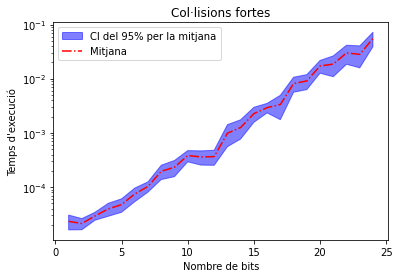
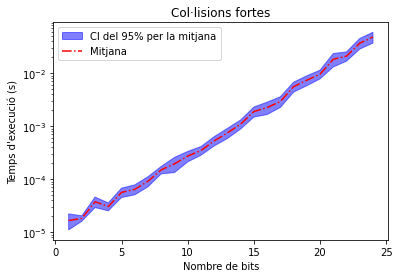
Actualitzat resultats de les mesures
Actualitzat figures i taules de les mesures de temps d'execució.
Corregit errors de la mesura a hash.py
Afegit calcul de la mitjana matematica per les col·lisions fortes.

diff --git a/hash.py b/hash.py
@@ -96,7 +96,9 @@ def _main():
     bit_range = np.arange(24) + 1
     bit_name = list(
         map(lambda n: str(n) + f" bit{'' if n == 1 else 's'}", bit_range))
-    repeats = 10
+    repeats = 20
+    info = pd.DataFrame(index=bit_name)
+
 
     # COL·LISIONS FORTES
     collisions, time = measure(collision, bit_range, repeats=repeats)
@@ -106,13 +108,14 @@ def _main():
 
     mu = collisions.mean(axis=-1)
     sigma = collisions.std(axis=-1, ddof=1) / np.sqrt(repeats)
-    info = pd.DataFrame({'mean': mu, 'mean error': sigma}, index=bit_name)
+    info["Iterations mean"] = list(map("{:8.1f}".format, mu))
+    info["Iterations error"] = list(map("{:8.2f}".format, sigma))
     plt.fill(list(bit_range) + list(bit_range)[::-1],
              list(mu + 1.96 * sigma) + list(mu - 1.96 * sigma)[::-1],
              c='blue', alpha=0.5, label='CI del 95% per la mitjana')
     plt.plot(bit_range, mu, c='red', linestyle='-.', label='Mitjana')
     plt.title("Col·lisions fortes")
-    plt.ylabel("Nombre de bits")
+    plt.ylabel("Nombre de iteracions")
     plt.xlabel("Nombre de bits")
     plt.yscale("log")
     plt.legend()
@@ -120,13 +123,14 @@ def _main():
     
     mu = time.mean(axis=-1)
     sigma = time.std(axis=-1, ddof=1) / np.sqrt(repeats)
-    timing = pd.DataFrame({'mean': mu, 'mean error': sigma}, index=bit_name)
+    info["Execution mean"] = list(map("{:8.3f}".format, 1e3 * mu))
+    info["Execution error"] = list(map("{:8.4f}".format, 1e3 * sigma))
     plt.fill(list(bit_range) + list(bit_range)[::-1],
              list(mu + 1.96 * sigma) + list(mu - 1.96 * sigma)[::-1],
              c='blue', alpha=0.5, label='CI del 95% per la mitjana')
     plt.plot(bit_range, mu, c='red', linestyle='-.', label='Mitjana')
     plt.title("Col·lisions fortes")
-    plt.ylabel("Temps d'execució")
+    plt.ylabel("Temps d'execució (s)")
     plt.xlabel("Nombre de bits")
     plt.yscale("log")
     plt.legend()
@@ -134,8 +138,7 @@ def _main():
 
     with open("strong_collision - tables.txt", 'w') as handler:
         handler.write(info.style.to_latex())
-        handler.write(timing.style.to_latex())
-
+        
     # COL·LISIONS DEBILS
     collisions, time = measure(
         second_preimage, bit_range, repeats=repeats, value_name="num_bits", message=random_string())
@@ -145,13 +148,14 @@ def _main():
 
     mu = collisions.mean(axis=-1)
     sigma = collisions.std(axis=-1, ddof=1) / np.sqrt(repeats)
-    info = pd.DataFrame({'mean': mu, 'mean error': sigma}, index=bit_name)
+    info["Iterations mean"] = list(map("{:10.1f}".format, mu))
+    info["Iterations error"] = list(map("{:10.2f}".format, sigma))
     plt.fill(list(bit_range) + list(bit_range)[::-1],
              list(mu + 1.96 * sigma) + list(mu - 1.96 * sigma)[::-1],
              c='blue', alpha=0.5, label='CI del 95% per la mitjana')
     plt.plot(bit_range, mu, c='red', linestyle='-.', label='Mitjana')
     plt.title("Col·lisions dèbils")
-    plt.ylabel("Nombre de bits")
+    plt.ylabel("Nombre de iteracions")
     plt.xlabel("Nombre de bits")
     plt.yscale("log")
     plt.legend()
@@ -159,13 +163,14 @@ def _main():
 
     mu = time.mean(axis=-1)
     sigma = time.std(axis=-1, ddof=1) / np.sqrt(repeats)
-    timing = pd.DataFrame({'mean': mu, 'mean error': sigma}, index=bit_name)
+    info["Execution mean"] = list(map("{:10.3f}".format, 1e3 * mu))
+    info["Execution error"] = list(map("{:10.4f}".format, 1e3 * sigma))
     plt.fill(list(bit_range) + list(bit_range)[::-1],
              list(mu + 1.96 * sigma) + list(mu - 1.96 * sigma)[::-1],
              c='blue', alpha=0.5, label='CI del 95% per la mitjana')
     plt.plot(bit_range, mu, c='red', linestyle='-.', label='Mitjana')
     plt.title("Col·lisions dèbils")
-    plt.ylabel("Temps d'execució")
+    plt.ylabel("Temps d'execució (s)")
     plt.xlabel("Nombre de bits")
     plt.yscale("log")
     plt.legend()
@@ -173,8 +178,7 @@ def _main():
 
     with open("weak_collision - tables.txt", 'w') as handler:
         handler.write(info.style.to_latex())
-        handler.write(timing.style.to_latex())
-
+        
 
 if __name__ == "__main__":
     import numpy as np

diff --git a/strong_collision_mean.py b/strong_collision_mean.py
@@ -1,0 +1,28 @@
+# -*- coding: utf-8 -*-
+"""
+@author: david
+"""
+
+import numpy as np
+import matplotlib.pyplot as plt
+
+# Tan simple que se puede hacer en tan solo una línea de còdigo
+def sm(b): 1 + np.sum(np.cumprod(np.arange(1 << b, 0, -1) / (1 << b)))
+
+def strong_mean(bits):
+    size = 1 << bits
+    descending = np.arange(size, 0, -1, dtype=np.float64) / size
+    probability = np.cumprod(descending)
+    return np.sum(probability) + 1
+
+bit_range = np.arange(24) + 1
+mean_range = list(map(strong_mean, bit_range))
+
+plt.plot(bit_range, mean_range,
+         c='red', linestyle='-.', label='Mitjana')
+plt.title("Col·lisions fortes")
+plt.ylabel("Nombre de iteracions")
+plt.xlabel("Nombre de bits")
+plt.yscale("log")
+plt.legend()
+plt.show()
